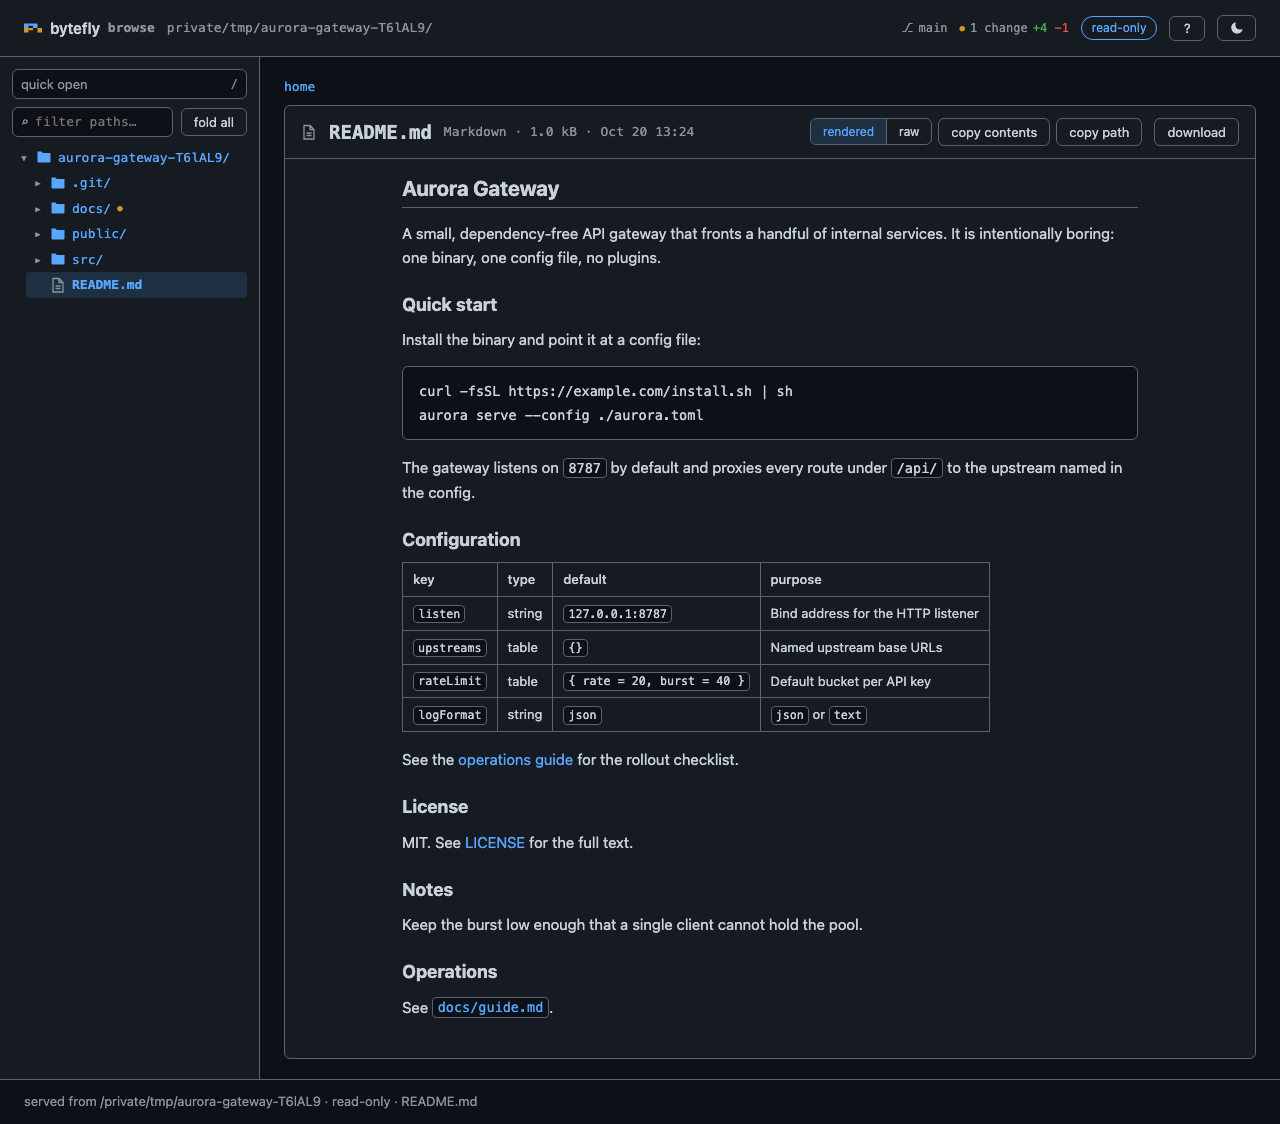
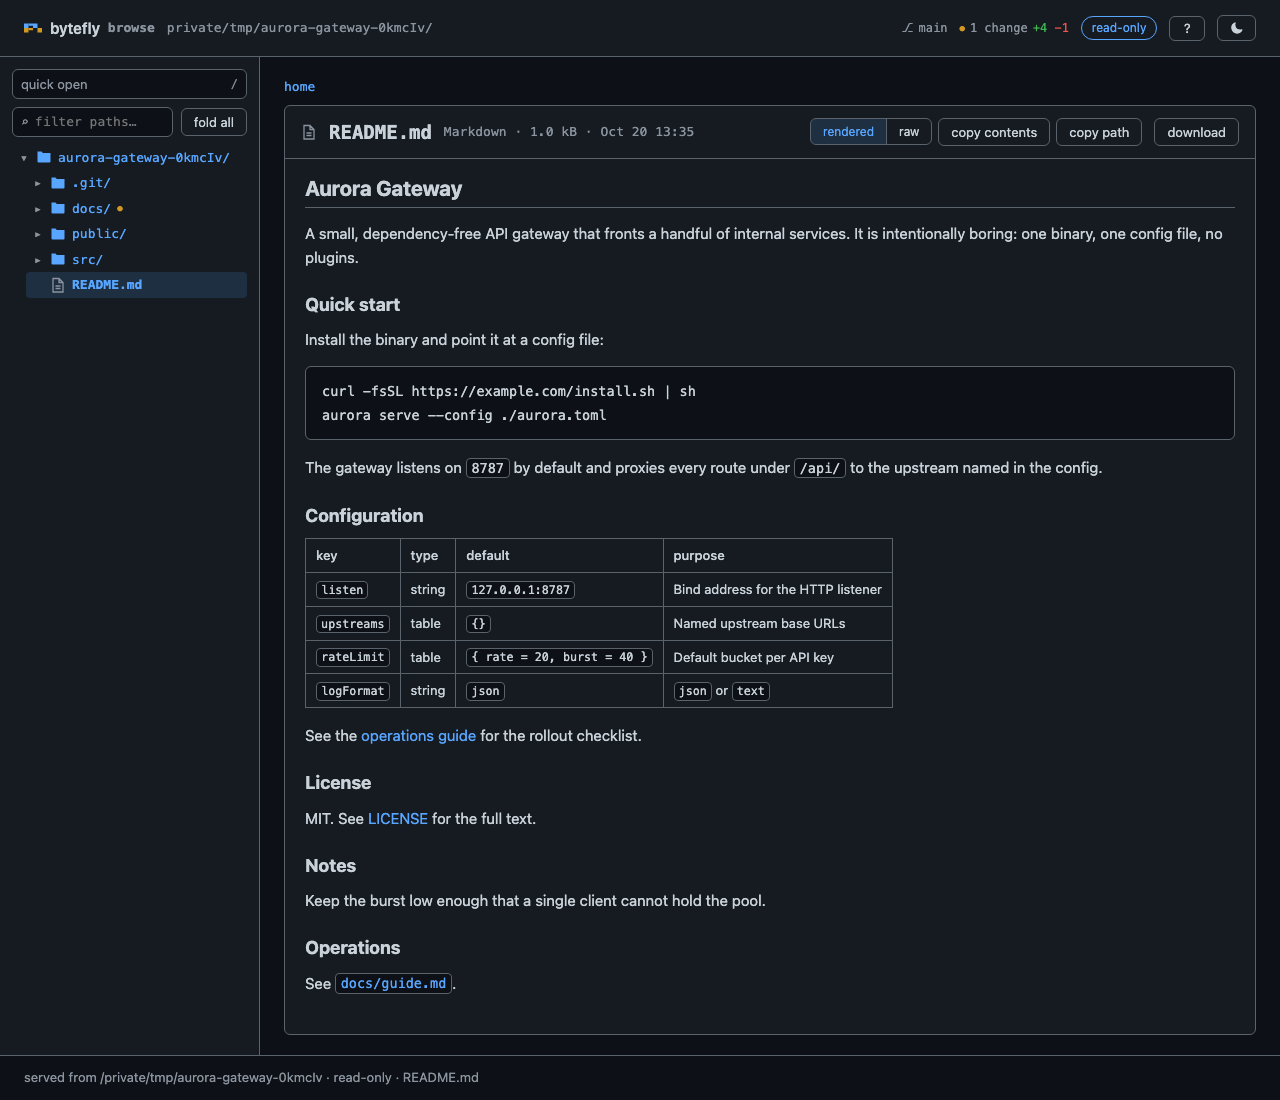
fix(file-browse): restore the 1012px Markdown measure
The previous change capped the reading column at min(1012px, 46rem), which is
736px at the default root size, and bounded code blocks to it as well. In use
that narrowed the whole rendered document by a quarter.

Restore the 1012px measure. Code blocks stay inside it, and tables still start
at the prose column and take the right-hand gutter with the clipped-edge fade.

diff --git a/extensions/file-browse/html.ts b/extensions/file-browse/html.ts
@@ -155,9 +155,8 @@ body.palette-open{overflow:hidden}
 /* The Markdown body fills the card, so the scroll box is the card's width: its
    scrollbar sits at the card edge. The measure lives on the blocks themselves:
    on .bf-md it would be a flex item with auto inline margins, which is
-   shrink-to-fit, so a short document collapsed to its widest line. It is a rem
-   length so every block resolves the same measure whatever its font. */
-.browse-measure{--browse-measure:min(1012px,46rem)}
+   shrink-to-fit, so a short document collapsed to its widest line. */
+.browse-measure{--browse-measure:1012px}
 .browse-measure .bf-md{--browse-gutter:max(0px,calc((100% - var(--browse-measure)) / 2));max-width:none;margin-inline:0;padding-inline:var(--space-5);padding-block:var(--space-4) var(--space-6)}
 .browse-measure .bf-md>*{max-width:var(--browse-measure);margin-inline:auto}
 /* Tables start at the prose column and take only the gutter to its right, so a

diff --git a/extensions/file-browse/html.test.ts b/extensions/file-browse/html.test.ts
@@ -921,9 +921,8 @@ describe("viewing surface", () => {
 		});
 		// The scroll box is the card, not the measure: `margin-inline:auto` on a flex
 		// item is shrink-to-fit, so a short document used to collapse to its widest
-		// line. The measure sits on the blocks instead, in rem so every block resolves
-		// the same length whatever its font.
-		expect(html).toContain(".browse-measure{--browse-measure:min(1012px,46rem)}");
+		// line. The measure sits on the blocks instead.
+		expect(html).toContain(".browse-measure{--browse-measure:1012px}");
 		expect(html).toContain(".browse-measure .bf-md{--browse-gutter:");
 		expect(html).toContain(";max-width:none;margin-inline:0;padding-inline:var(--space-5);");
 		expect(html).toContain(".browse-measure .bf-md>*{max-width:var(--browse-measure);margin-inline:auto}");

diff --git a/extensions/file-browse/README.md b/extensions/file-browse/README.md
@@ -42,7 +42,7 @@ pi -e .                                    # load the whole @gavin-hu/my-pi-agen
   tables, code, inline and reference links, bare-URL autolinks, and images, with
   a one-click **raw** view (`?raw=1`). The page fills the card, so the scroll
   bar sits at the card edge; headings, prose, and images keep a centred reading
-  measure of at most 46rem (about 740px, near 110 characters). Code blocks stay
+  measure of at most 1012px. Code blocks stay
   inside that column; tables start at it and take the free gutter to its right,
   and a table wider than the pane scrolls, its right edge fading until the last
   column is reached. A task list's checkbox is drawn by the page, so a done

diff --git a/CHANGELOG.md b/CHANGELOG.md
@@ -28,7 +28,7 @@ to [Semantic Versioning](https://semver.org/spec/v2.0.0.html).
 
 - `file-browse`: a rendered Markdown page fills the card instead of being the
   1012px scroll box itself, so the scroll bar sits at the card edge. Headings,
-  prose, and code keep a centred measure of at most 46rem (about 740px). Tables
+  prose, and code keep a centred measure of at most 1012px. Tables
   start at that column and take the free gutter to its right instead of
   scrolling inside the measure, and a table wider than the pane fades its right
   edge until scrolled to the end.
